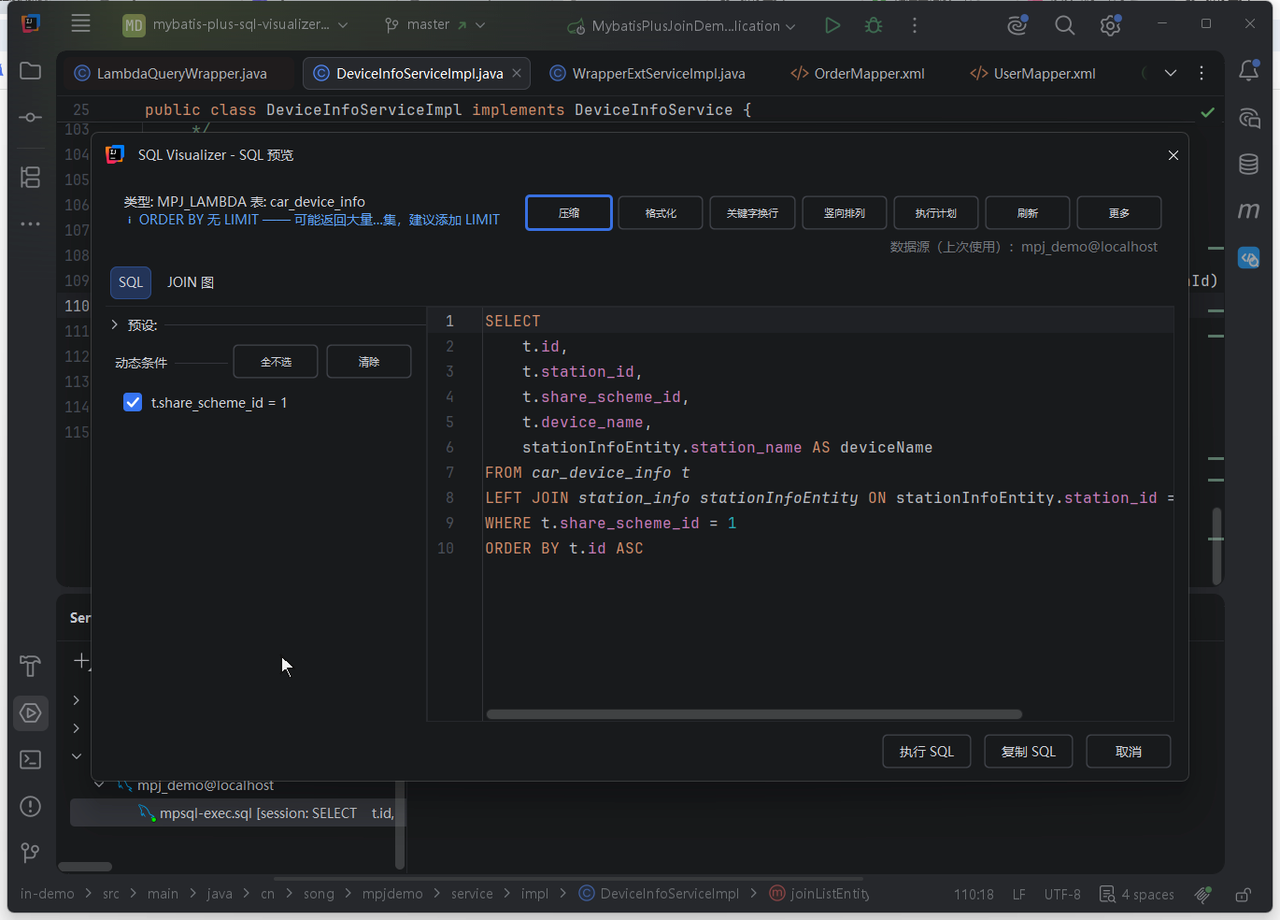
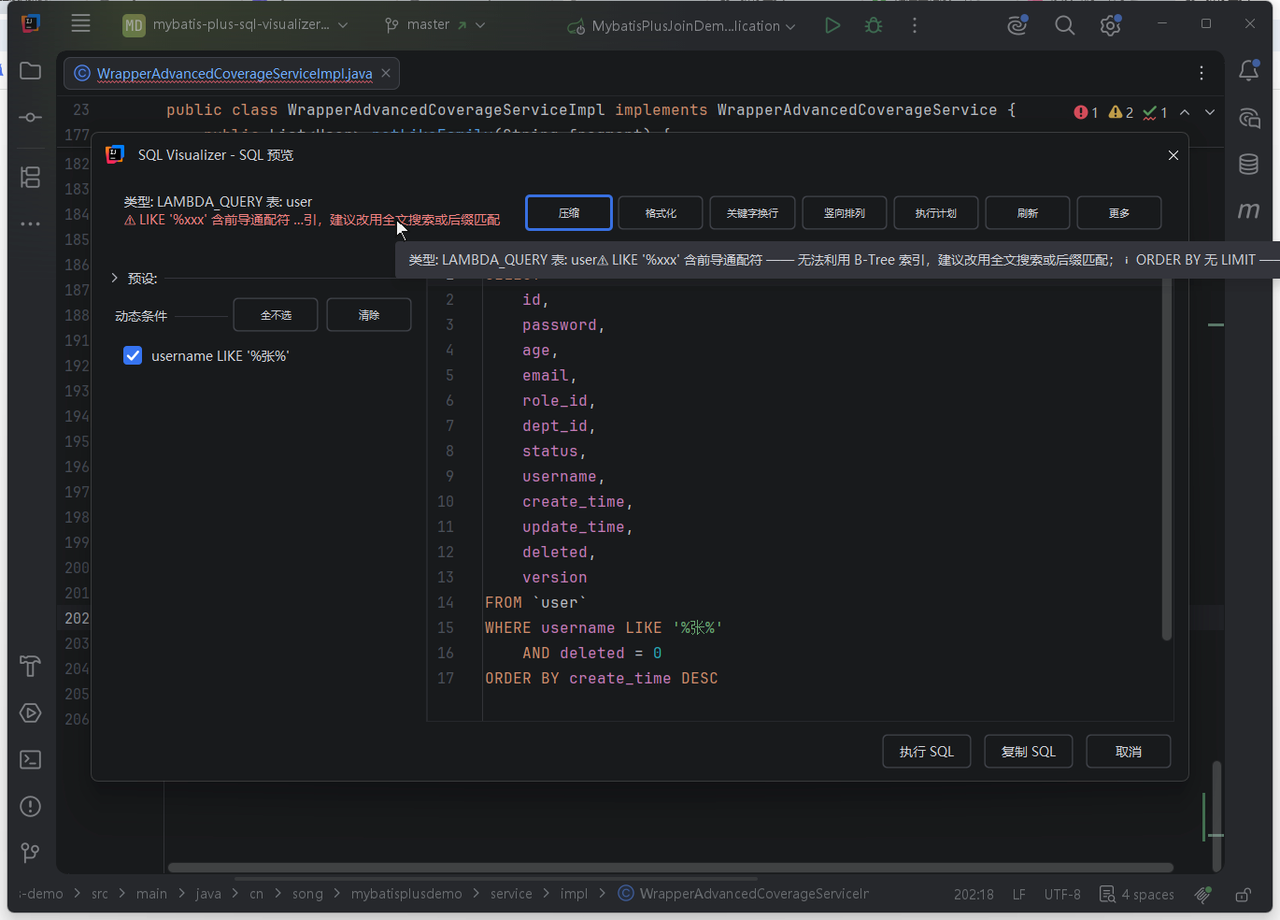
docs(demo): S2 perf-advice 补素材后重出片（含截断 + 悬停全文）+ 新增「静态性能建议」小节
补素材：demo 仓 1f9a191 新增 WrapperAdvancedCoverageServiceImpl#perfAdviceDemo
（like 字面通配 + 无 LIMIT 的 ORDER BY），让预览面板能同时出多条建议。
踩坑记录：MP like() 自补两侧 %（值里再写 % 会成 %%…%%）；改素材后行号漂移
必须重算跳行列号（否则光标落文档注释、预览不开、整条 take 白录）。

成片：take 内唤起预览（建议行随预览出现）→ 凝视截断态建议行 → 悬停放住出
tooltip（全文含多条建议）→ 回建议行收尾（末帧即 tooltip）。

页面：features/wrapper-preview.md 与 en 各新增「静态性能建议 / Static Performance
Advice」小节（此前无独立小节、无图）。

diff --git a/docs/开发计划/20261008-1106-演示资产缺口全量盘点与录制计划-开发计划.md b/docs/开发计划/20261008-1106-演示资产缺口全量盘点与录制计划-开发计划.md
@@ -642,3 +642,12 @@
   - `OrderMapper.xml` 的 `selectOrdersByCondition`（`SELECT * FROM t_order` + `LIKE CONCAT('%', #{orderNo}, '%')` + `ORDER BY create_time DESC`）
   - `DepartmentMapper.xml` 的 `statDeptUserCount`（含子查询 + `IN` foreach）
   而同样需要「SELECT 语句」判定的 MPJ 链却能出建议（`SqlPreviewService.analyzePerf` 只要求 `statement is SelectStatement`，XML 语句满足）。**未修，已登记**；疑似 XML 预览路径的元信息行构建没接性能建议分段（`buildPerfSegments` 已就绪）。
+
+- **2026-10-12 S2 补素材后重出（0.6MB / 10.2s，`public/demo/perf-advice.gif` 已替换）；README/页面同步「静态性能建议」小节**。
+  用户指示「缺什么素材补什么」，故**给 demo 补了一条专用链**（demo 仓 `1f9a191`）：
+  `WrapperAdvancedCoverageServiceImpl#perfAdviceDemo` = `like(User::getUsername, "张")` + `orderByDesc(User::getCreateTime)`
+  → 渲染 `LIKE '%张%'`（前导通配符）+ `ORDER BY create_time DESC`（无 LIMIT）。
+  **踩坑**：MP 的 `like()` **自己补两侧 `%`**，值里再写 `%` 会渲染出 `LIKE '%%张%%'` 的双重通配（用户当场看出「这模糊查询的百分号是不是重复了」）——已改成传 `"张"` 并把这条写进方法注释。
+  **另一坑**：给方法加注释块后 `.like` 行号从 200 漂到 202，光标落在文档注释里 → `anchor=null`、`Alt+Shift+Q` 只弹通知不开预览，整条 take 白录；**改素材后必须重算跳行列号**。
+  **成片三幕**：take 内唤起预览（建议行随预览出现）→ 凝视建议行（可见态是**按宽度预算截断**、末尾补 `…`）→ 光标停在建议行上等 tooltip，**tooltip 里给出全部建议全文**（可读到第一条 `⚠ LIKE '%xxx' 含前导通配符 —— 无法利用 B-Tree 索引，建议改用全文搜索或后缀匹配；` 之后接着下一段）→ 回到建议行收尾（末帧/poster 就是 tooltip，移到别处 tooltip 会消失）。
+  **页面对应**：`features/wrapper-preview.md` 与 `en/features/wrapper-preview.md` **新增「静态性能建议 / Static Performance Advice」小节**（此前该行为只在 EXPLAIN 节被顺带提到、无独立小节也没有图），文案写明「红 `⚠` = 警告、蓝 `ℹ` = 提示」「可见文案按宽度预算截断、悬停看全文」。

diff --git a/en/features/wrapper-preview.md b/en/features/wrapper-preview.md
@@ -101,7 +101,7 @@ The verdict comes from static analysis of the SQL syntax tree (the same source a
 
 <GifPlayer src="/demo/perf-advice.gif" alt="Previewing a join-chain SQL shows a static performance-advice segment right below the panel meta row: ORDER BY without LIMIT — may return a large result set, consider adding LIMIT (a red prefix marks ERROR/WARN, a blue prefix marks INFO)" />
 
-As soon as the preview renders SQL, the panel lists static performance advice line by line below the meta row (`ORDER BY` without `LIMIT`, `LIKE` with a leading wildcard, a missing `WHERE`, overly deep subqueries and so on). A red `⚠` prefix marks warnings and a blue `ℹ` prefix marks hints, sitting side by side with the real EXPLAIN plan.
+As soon as the preview renders SQL, the panel lists static performance advice line by line below the meta row (`ORDER BY` without `LIMIT`, `LIKE` with a leading wildcard, a missing `WHERE`, overly deep subqueries and so on). A red `⚠` prefix marks warnings and a blue `ℹ` prefix marks hints, sitting side by side with the real EXPLAIN plan. The visible text is truncated to a width budget (an ellipsis at the end); **hover to read the full text of every suggestion**.
 
 ### Logic Delete Injection
 

diff --git a/features/wrapper-preview.md b/features/wrapper-preview.md
@@ -102,7 +102,7 @@ UPDATE / DELETE 缺少有效过滤条件时，点「执行 SQL」的确认弹窗
 
 <GifPlayer src="/demo/perf-advice.gif" alt="预览一条联表链 SQL 时，面板顶部元信息行下方出现静态性能建议分段：⚠ ORDER BY 无 LIMIT —— 可能返回大量结果集，建议添加 LIMIT（红前缀为 ERROR/WARN、蓝前缀 ℹ 为 INFO）" />
 
-预览出 SQL 的同时，面板顶部元信息行下方按静态规则逐条给出性能建议（如 `ORDER BY` 无 `LIMIT`、`LIKE` 含前导通配符、缺少 `WHERE`、子查询过深等）；红前缀 `⚠` 为警告、蓝前缀 `ℹ` 为提示，与 EXPLAIN 的真实执行计划同屏对照。
+预览出 SQL 的同时，面板顶部元信息行下方按静态规则逐条给出性能建议（如 `ORDER BY` 无 `LIMIT`、`LIKE` 含前导通配符、缺少 `WHERE`、子查询过深等）；红前缀 `⚠` 为警告、蓝前缀 `ℹ` 为提示，与 EXPLAIN 的真实执行计划同屏对照。可见文案按宽度预算截断（末尾补 `…`），**悬停可看全部建议的完整文本**。
 
 ### 逻辑删除注入
 
